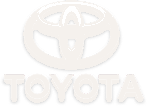
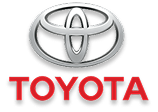
Restore original brand colors, real social PNGs, white MYAVTO mark
- Restore original colored brand logos (Toyota red, Honda H, Subaru oval,
  Hyundai blue, etc.) and put each on a light bone-50 card so the official
  brand colors are clearly visible on the dark theme
- Add real social PNGs from owner: Instagram (gradient), TikTok official,
  Kaspi people-circle, Kolesa.kz wordmark, OLX cyan badge
- Convert tiltok.avif to tiktok.png via sips for cross-browser support
- WhatsApp + Telegram remain inline SVG (per owner request)
- SocialBubble + SocialTile now accept either Icon component or img path
- Mobile sticky bar uses real Kaspi PNG
- MYAVTO mark: pure white silhouette (no synthetic background card)

diff --git a/index.html b/index.html
@@ -1039,23 +1039,29 @@ function EnginePickerForm() {
             <label className="font-mono text-xs text-bone-500 tracking-wider">01 · ПРОИЗВОДИТЕЛЬ</label>
             {maker && <span className="font-mono text-xs text-ember-500">{maker.name.toUpperCase()}</span>}
           </div>
-          <div className="grid grid-cols-4 md:grid-cols-8 gap-2">
-            {MAKERS.map(m => (
-              <button key={m.name} type="button" onClick={() => setMaker(m)}
-                title={m.name}
-                className={`h-16 flex flex-col gap-1 items-center justify-center font-display font-medium text-[11px] transition border ${
-                  maker?.name === m.name
-                    ? 'bg-ember-500 text-ink-900 border-ember-500'
-                    : 'bg-ink-800 text-bone-100 border-ink-600 hover:border-ember-500 hover:-translate-y-0.5'
-                }`}>
-                {m.logo
-                  ? <img src={m.logo} alt={m.name}
-                      className={`h-7 max-w-[80%] object-contain ${maker?.name === m.name ? 'brightness-0 invert-0' : 'opacity-95'}`}
-                      style={maker?.name === m.name ? { filter: 'brightness(0)' } : {}}/>
-                  : <span>{m.name}</span>}
-                <span className="opacity-80">{m.name}</span>
-              </button>
-            ))}
+          <div className="grid grid-cols-3 sm:grid-cols-4 md:grid-cols-5 gap-2">
+            {MAKERS.map(m => {
+              const on = maker?.name === m.name;
+              return (
+                <button key={m.name} type="button" onClick={() => setMaker(m)}
+                  title={m.name}
+                  className={`group flex flex-col items-stretch text-[11px] font-display font-medium transition border overflow-hidden ${
+                    on
+                      ? 'border-ember-500 ring-2 ring-ember-500 -translate-y-0.5'
+                      : 'border-ink-600 hover:border-ember-500 hover:-translate-y-0.5'
+                  }`}>
+                  {/* Светлая карточка-фон для логотипа — цветной лого виден как у официального бренда */}
+                  <div className={`h-14 flex items-center justify-center px-3 ${on ? 'bg-bone-50' : 'bg-bone-50/95 group-hover:bg-bone-50'}`}>
+                    {m.logo
+                      ? <img src={m.logo} alt={m.name} className="max-h-9 max-w-[90%] object-contain"/>
+                      : <span className="text-ink-900 font-bold">{m.name}</span>}
+                  </div>
+                  <span className={`py-1.5 text-center transition ${
+                    on ? 'bg-ember-500 text-ink-900' : 'bg-ink-800 text-bone-100 group-hover:bg-ink-700'
+                  }`}>{m.name}</span>
+                </button>
+              );
+            })}
           </div>
         </div>
 
@@ -1678,7 +1684,7 @@ function MobileStickyCTA() {
       </a>
       <a href={CONTACTS.kaspi} target="_blank" rel="noopener"
         className="flex flex-col items-center gap-1 py-2.5 text-bone-100 active:bg-ink-800 border-l border-ink-600">
-        <IconKaspi size={22}/><span>Kaspi</span>
+        <img src="assets/social/kaspi.png" alt="Kaspi" className="w-[22px] h-[22px] object-contain rounded"/><span>Kaspi</span>
       </a>
       <a href={`tel:${CONTACTS.phoneE164}`}
         className="flex flex-col items-center gap-1 py-2.5 text-bone-100 active:bg-ink-800 border-l border-ink-600">
@@ -1693,22 +1699,31 @@ function MobileStickyCTA() {
   );
 }
 
-// Compact social/marketplace badge — единый стиль с подписью под иконкой
-function SocialBubble({ href, Icon, label }) {
+// Compact social/marketplace badge — единый стиль с подписью под иконкой.
+// Принимает либо Icon (SVG-компонент), либо img (путь к PNG) — для официальных лого брендов.
+function SocialBubble({ href, Icon, img, label }) {
   return (
     <a href={href} target="_blank" rel="noopener" title={label}
-      className="group flex flex-col items-center gap-1.5 p-2.5 bg-ink-850 border border-ink-600 hover:border-ember-500 active:scale-95 hover:-translate-y-0.5 transition">
-      <Icon size={26}/>
+      className="group flex flex-col items-center gap-1.5 p-2 bg-ink-850 border border-ink-600 hover:border-ember-500 active:scale-95 hover:-translate-y-0.5 transition">
+      <div className="w-10 h-10 flex items-center justify-center overflow-hidden">
+        {img
+          ? <img src={img} alt={label} className="w-full h-full object-contain rounded-md"/>
+          : Icon ? <Icon size={32}/> : null}
+      </div>
       <span className="font-mono text-[9px] tracking-wider text-bone-300 group-hover:text-ember-500 transition truncate max-w-full">{label}</span>
     </a>
   );
 }
 
-function SocialTile({ href, Icon, label, sub }) {
+function SocialTile({ href, Icon, img, label, sub }) {
   return (
     <a href={href} target="_blank" rel="noopener"
       className="flex items-center gap-3 p-3 bg-ink-800 border border-ink-600 hover:border-ember-500 transition group">
-      <div className="flex-shrink-0"><Icon size={28}/></div>
+      <div className="flex-shrink-0 w-8 h-8 flex items-center justify-center overflow-hidden rounded">
+        {img
+          ? <img src={img} alt={label} className="w-full h-full object-contain"/>
+          : Icon ? <Icon size={28}/> : null}
+      </div>
       <div className="min-w-0 flex-1">
         <div className="text-sm text-bone-100 truncate">{label}</div>
         <div className="font-mono text-[10px] text-bone-500 truncate">{sub}</div>
@@ -1769,15 +1784,15 @@ function Footer() {
           <div className="lg:col-span-3">
             <div className="font-mono text-xs text-bone-500 tracking-widest mb-4">СОЦСЕТИ И КАНАЛЫ</div>
             <div className="grid grid-cols-1 gap-2">
-              <SocialTile href={CONTACTS.telegram}  Icon={IconTelegram}  label="Telegram-канал" sub={`${CONTACTS.telegramHandle} · НАЛИЧИЕ И ЦЕНЫ`}/>
-              <SocialTile href={CONTACTS.instagram} Icon={IconInstagram} label="Instagram"      sub={`${CONTACTS.instagramHandle} · ФОТО СО СКЛАДА`}/>
-              <SocialTile href={CONTACTS.tiktok}    Icon={IconTikTok}    label="TikTok"         sub={`${CONTACTS.tiktokHandle} · РАЗБОРЫ ДВС`}/>
+              <SocialTile href={CONTACTS.telegram}  Icon={IconTelegram}                  label="Telegram-канал" sub={`${CONTACTS.telegramHandle} · НАЛИЧИЕ И ЦЕНЫ`}/>
+              <SocialTile href={CONTACTS.instagram} img="assets/social/instagram.png"   label="Instagram"      sub={`${CONTACTS.instagramHandle} · ФОТО СО СКЛАДА`}/>
+              <SocialTile href={CONTACTS.tiktok}    img="assets/social/tiktok.png"      label="TikTok"         sub={`${CONTACTS.tiktokHandle} · РАЗБОРЫ ДВС`}/>
             </div>
             <div className="font-mono text-xs text-bone-500 tracking-widest mt-5 mb-3">МАРКЕТПЛЕЙСЫ</div>
             <div className="grid grid-cols-1 gap-2">
-              <SocialTile href={CONTACTS.kaspi}  Icon={IconKaspi}  label="Kaspi Магазин"   sub="ОПЛАТА · РАССРОЧКА 0–0–12"/>
-              <SocialTile href={CONTACTS.kolesa} Icon={IconKolesa} label="Kolesa.kz"       sub="ВСЕ АКТИВНЫЕ ОБЪЯВЛЕНИЯ"/>
-              <SocialTile href={CONTACTS.olx}    Icon={IconOLX}    label="OLX.kz"          sub="ПРАЙС И ОТЗЫВЫ"/>
+              <SocialTile href={CONTACTS.kaspi}  img="assets/social/kaspi.png"  label="Kaspi Магазин"   sub="ОПЛАТА · РАССРОЧКА 0–0–12"/>
+              <SocialTile href={CONTACTS.kolesa} img="assets/social/kolesa.jpg" label="Kolesa.kz"       sub="ВСЕ АКТИВНЫЕ ОБЪЯВЛЕНИЯ"/>
+              <SocialTile href={CONTACTS.olx}    img="assets/social/olx.jpg"    label="OLX.kz"          sub="ПРАЙС И ОТЗЫВЫ"/>
             </div>
           </div>
 
@@ -1978,13 +1993,13 @@ function Hero({ activeId, hoverId, onSelectPart, onHoverPart }) {
             <div className="mb-8 md:mb-10">
               <div className="font-mono text-[10px] tracking-widest text-bone-500 mb-2.5">МЫ ВЕЗДЕ — ПИШИ В УДОБНЫЙ КАНАЛ:</div>
               <div className="grid grid-cols-4 sm:grid-cols-7 gap-2 max-w-2xl">
-                <SocialBubble href={CONTACTS.whatsapp}  Icon={IconWhatsApp}  label="WhatsApp"/>
-                <SocialBubble href={CONTACTS.telegram}  Icon={IconTelegram}  label="Telegram"/>
-                <SocialBubble href={CONTACTS.instagram} Icon={IconInstagram} label="Instagram"/>
-                <SocialBubble href={CONTACTS.tiktok}    Icon={IconTikTok}    label="TikTok"/>
-                <SocialBubble href={CONTACTS.kaspi}     Icon={IconKaspi}     label="Kaspi"/>
-                <SocialBubble href={CONTACTS.kolesa}    Icon={IconKolesa}    label="Kolesa"/>
-                <SocialBubble href={CONTACTS.olx}       Icon={IconOLX}       label="OLX"/>
+                <SocialBubble href={CONTACTS.whatsapp}  Icon={IconWhatsApp}            label="WhatsApp"/>
+                <SocialBubble href={CONTACTS.telegram}  Icon={IconTelegram}            label="Telegram"/>
+                <SocialBubble href={CONTACTS.instagram} img="assets/social/instagram.png" label="Instagram"/>
+                <SocialBubble href={CONTACTS.tiktok}    img="assets/social/tiktok.png"    label="TikTok"/>
+                <SocialBubble href={CONTACTS.kaspi}     img="assets/social/kaspi.png"     label="Kaspi"/>
+                <SocialBubble href={CONTACTS.kolesa}    img="assets/social/kolesa.jpg"    label="Kolesa"/>
+                <SocialBubble href={CONTACTS.olx}       img="assets/social/olx.jpg"       label="OLX"/>
               </div>
             </div>
 
